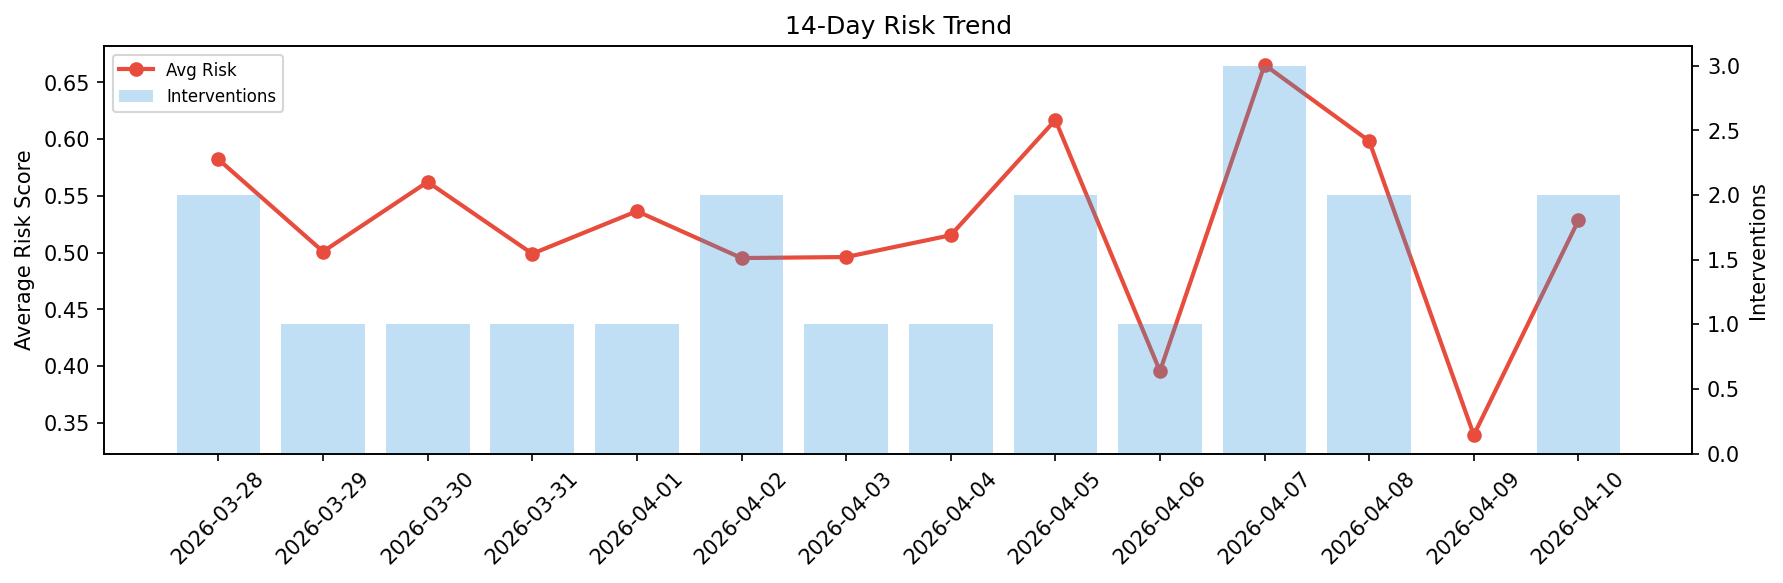
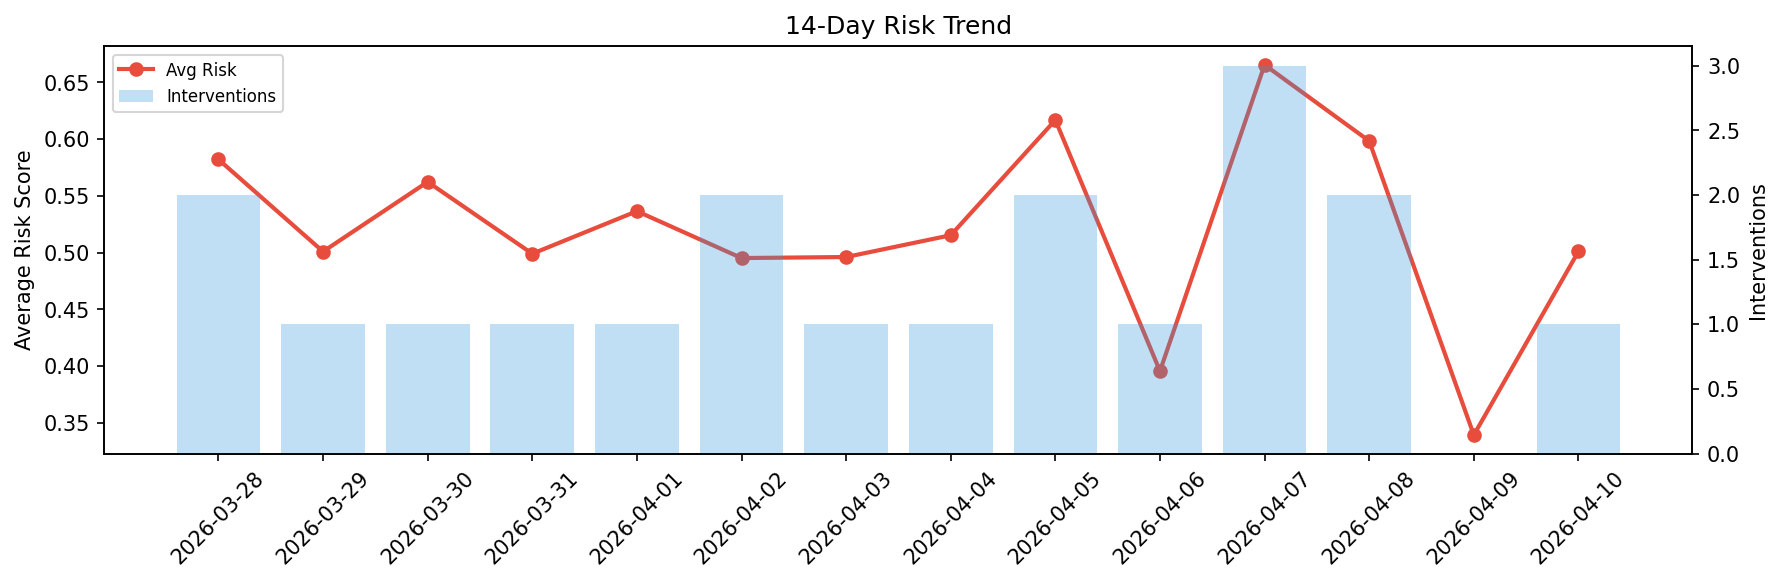
agent-improvement: daily cycle 2026-04-10T20:55

Changed region(s): [[0.8329, 0.3087, 0.9254, 0.7101]]

diff --git a/logs/2026-04-10.md b/logs/2026-04-10.md
@@ -1,6 +1,6 @@
 # Agent Improvement Report — 2026-04-10
 
-**Cycle ID:** `009c2ad7` | **Avg Risk:** 0.5285 | **Interventions:** 2/4
+**Cycle ID:** `79c9b0a4` | **Avg Risk:** 0.5011 | **Interventions:** 1/4
 
 ![Dashboard](2026-04-10_dashboard.png)
 
@@ -10,18 +10,18 @@
 
 | Domain | Risk Score | Decision | Alerts |
 |--------|-----------|----------|--------|
-| code_review | 0.7059 | intervene | complexity, coverage |
-| incident_response | 0.6062 | intervene | blast_radius |
-| data_pipeline | 0.4886 | monitor | none |
-| deployment | 0.3134 | monitor | none |
+| code_review | 0.8178 | intervene | duplication, coverage |
+| incident_response | 0.4451 | monitor | none |
+| data_pipeline | 0.1627 | monitor | none |
+| deployment | 0.5788 | monitor | rollback_rate |
 
 ## Delta vs Yesterday
 
 | Domain | Today | Yesterday | Change |
 |--------|-------|-----------|--------|
-| code_review | 0.7059 | 0.3386 | 📈 108.5% |
-| incident_response | 0.6062 | 0.4869 | 📈 24.5% |
-| data_pipeline | 0.4886 | 0.2547 | 📈 91.8% |
-| deployment | 0.3134 | 0.2773 | 📈 13.0% |
+| code_review | 0.8178 | 0.3386 | 📈 141.5% |
+| incident_response | 0.4451 | 0.4869 | 📉 -8.6% |
+| data_pipeline | 0.1627 | 0.2547 | 📉 -36.1% |
+| deployment | 0.5788 | 0.2773 | 📈 108.7% |
 
 **Refinement:** `{'adjustment': 'maintain', 'trend': 'improving', 'window': 4}`
